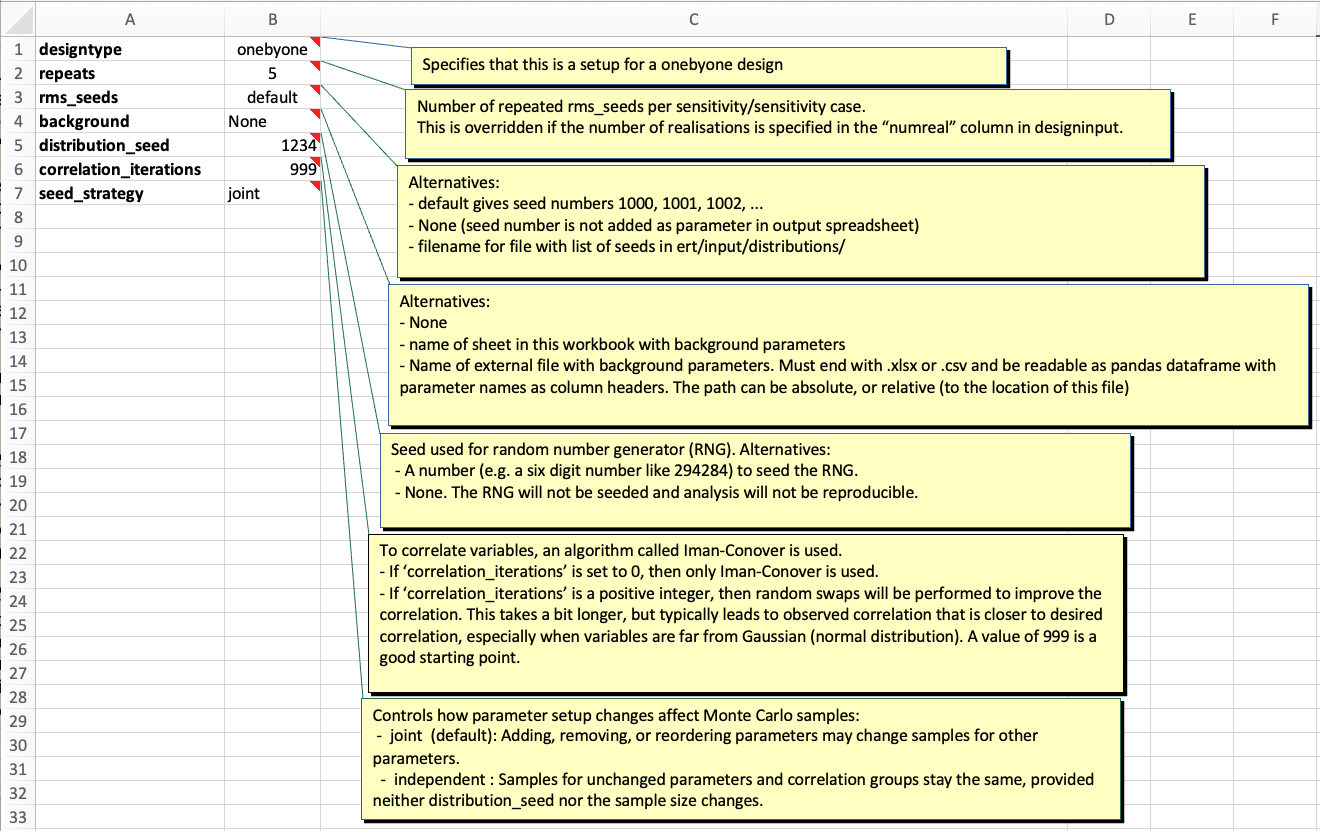
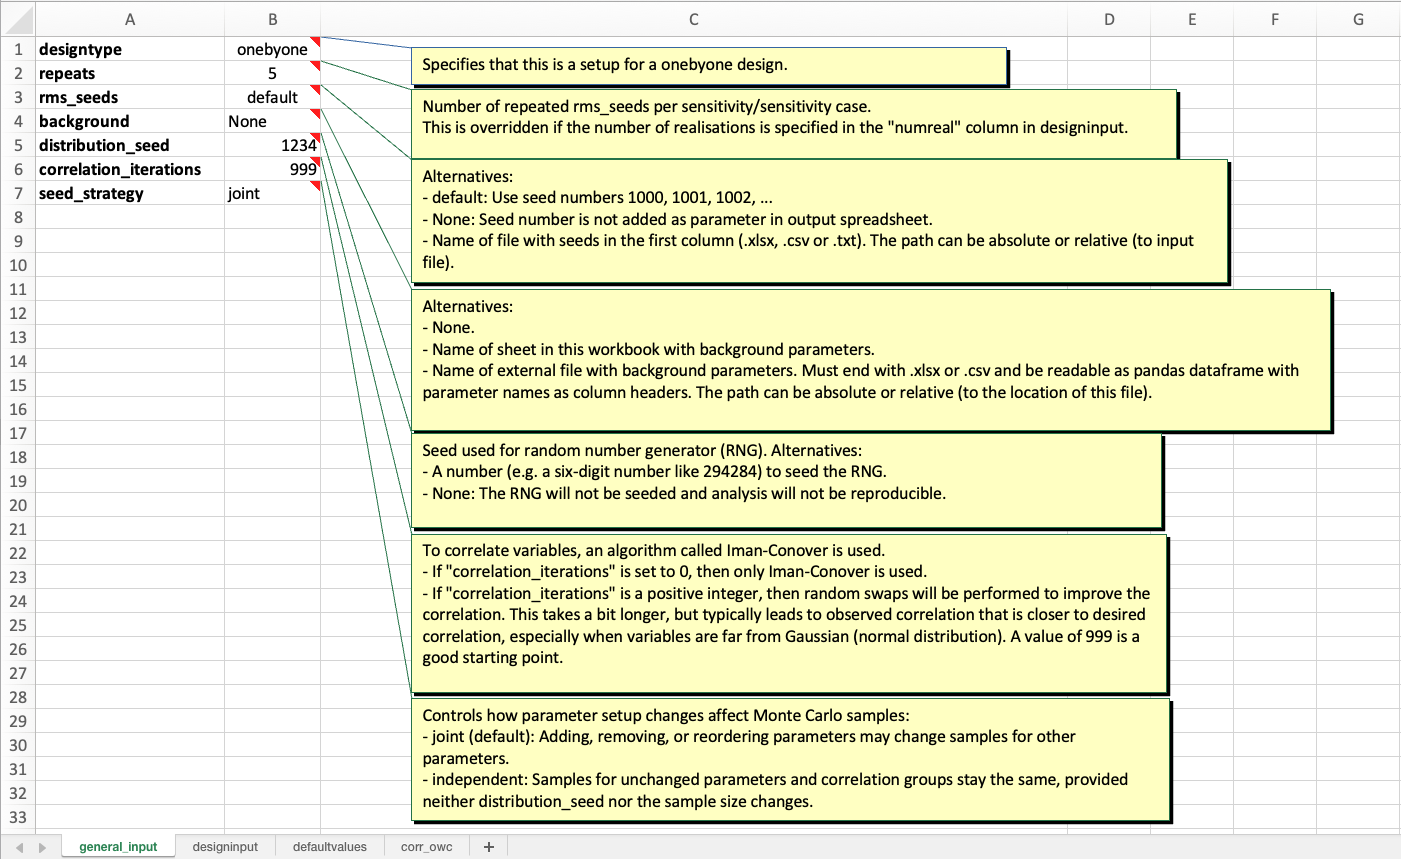
DOC: Update fmudesign general_input wording

diff --git a/docs/fmudesign.rst b/docs/fmudesign.rst
@@ -140,9 +140,7 @@ Three sheets must exist in the input Excel workbook:
 The default names can be changed using CLI arguments, see ``fmudesign run --help``.
 
 Run ``fmudesign init --help`` to learn how to set up example workbooks.
-In the example notebooks, all config options in the **general_input** sheet are documented.
-
-Some of the **general_input** options are shown in the screenshot below:
+The screenshot below shows the **general_input** sheet from the ``fmudesign_ex_montecarlo.xlsx`` example, where all options are documented:
 
 .. image:: images/design_general_input.png
 
@@ -169,7 +167,7 @@ Example 1: One by one sensitivities with repeating RMS seeds
    The Excel config files that correspond to these examples can be created and run using ``fmudesign init``.
    That way you can follow along and run the files as you read through the examples!
 
-In this example the *general_input* and *defaultvalues* are as in the figures above.
+In this example *repeats* is set to 10 in the *general_input* sheet, and the *defaultvalues* are as in the figure above.
 In the *designinput* sheet four sensitivities are specified in addition to the seed sensitivity: 'faults', 'velmodel', 'contacts' and 'multz'.
 Each sensitivity can contain one or several rows with parameters, but the sensitivity type and senscase (names for the 1-2 cases per scenario) is defined in the first row of the sensitivity.
 In the *faults* sensitivity two alternative values for the parameter *FAULT_POSITION* are specified, in senscase 'east' and 'west'.
